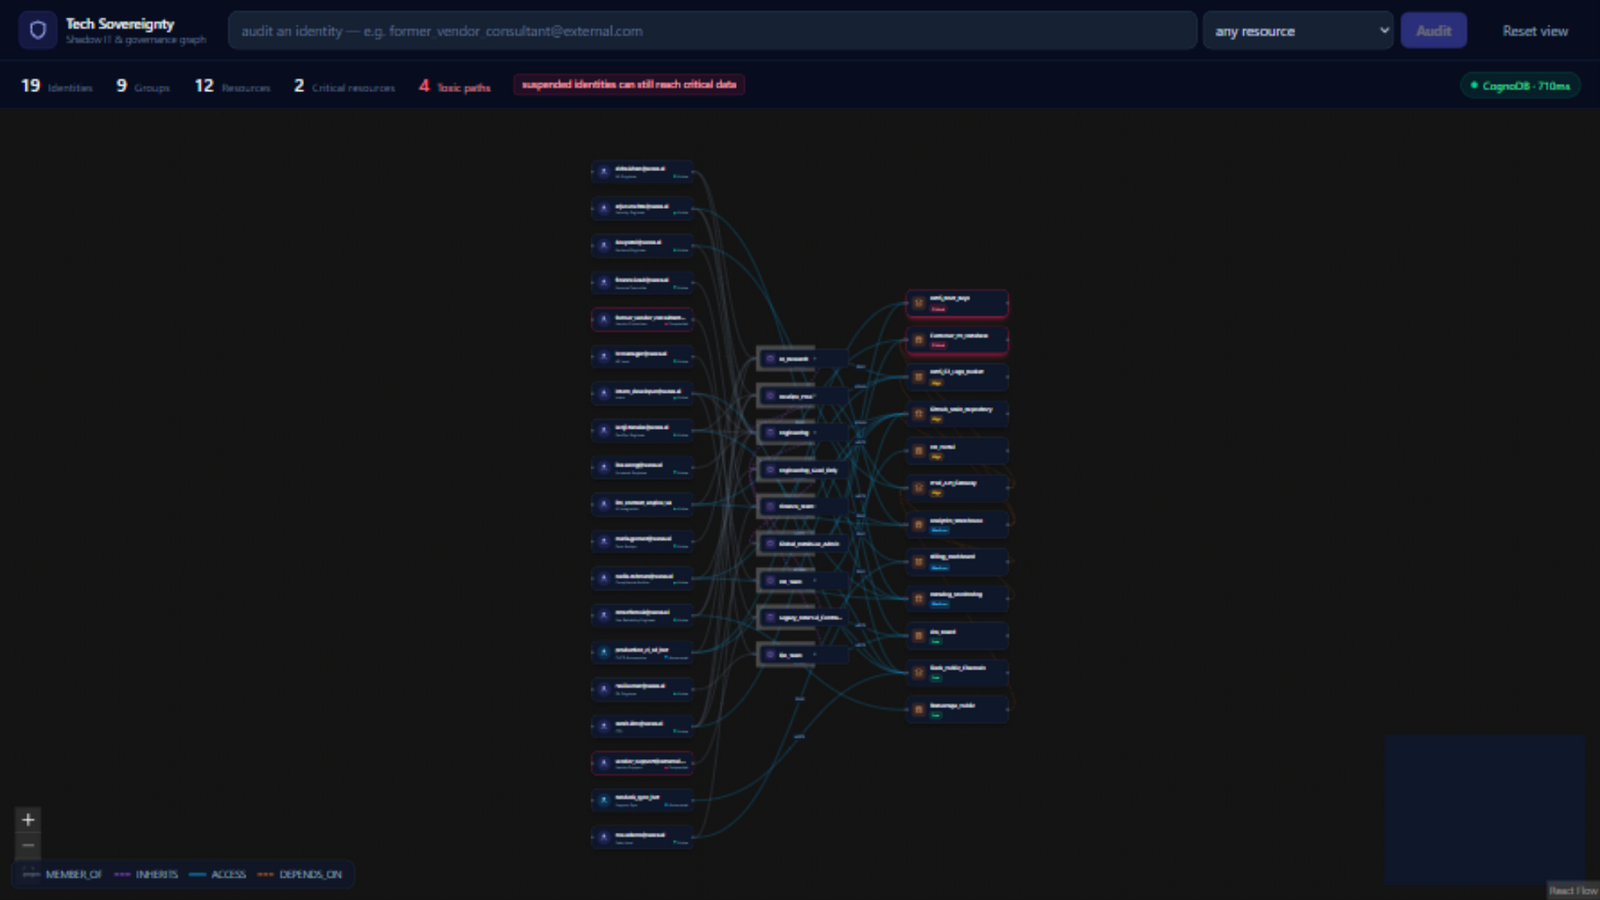
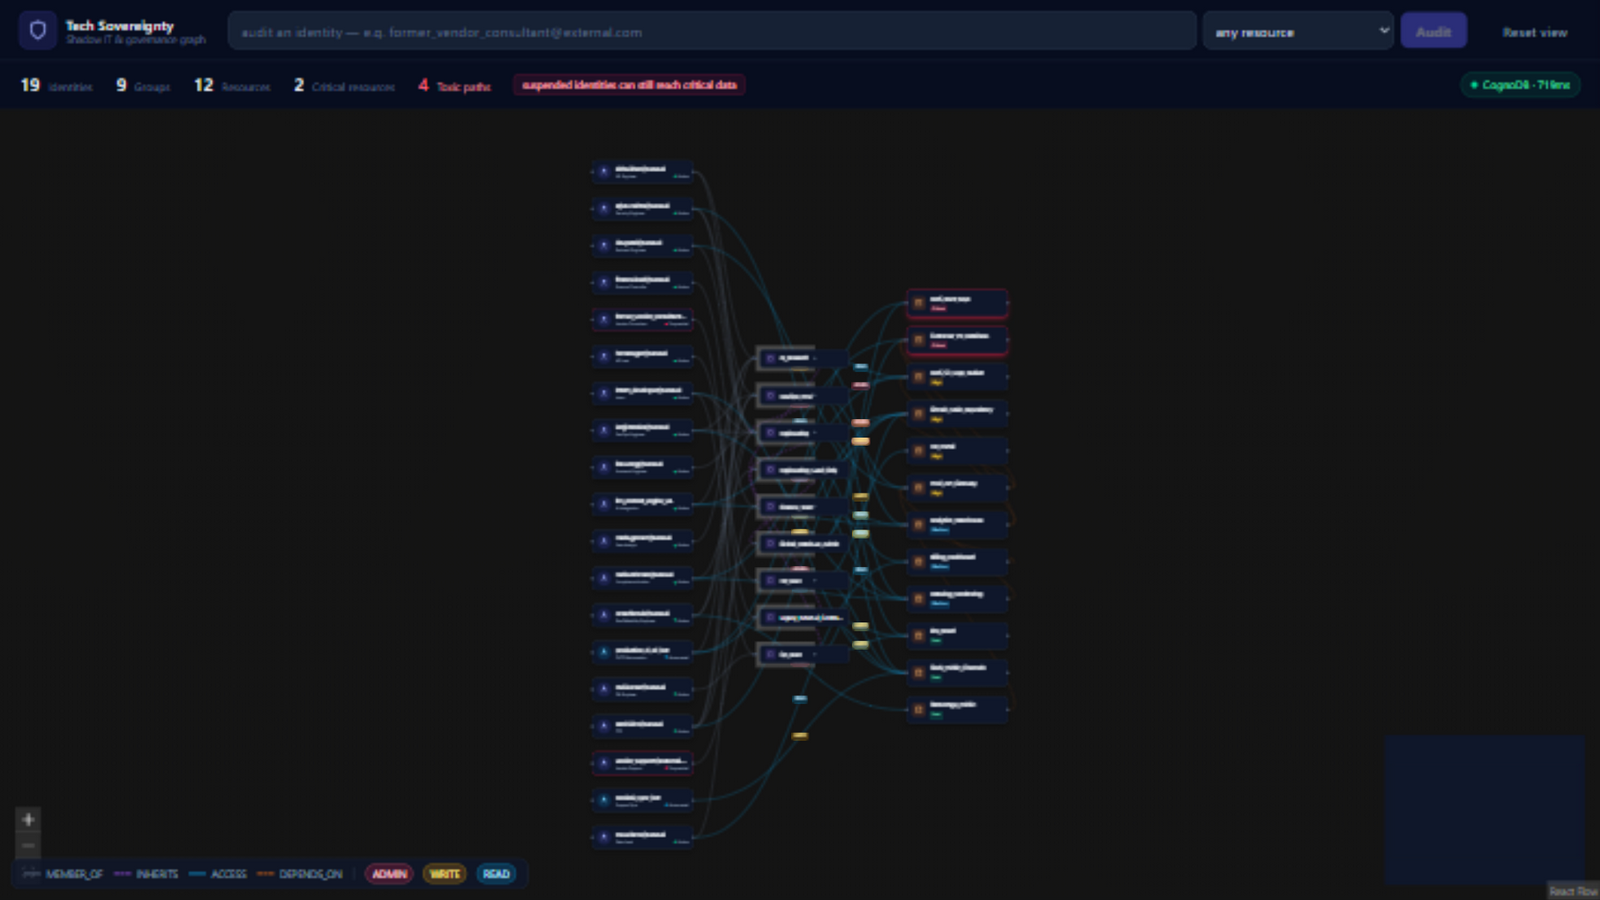
feat(ui): color-coded screen-space level chips for ACCESS edges + legend swatches

diff --git a/frontend/src/components/GraphCanvas.jsx b/frontend/src/components/GraphCanvas.jsx
@@ -4,8 +4,12 @@ import '@xyflow/react/dist/style.css'
 import IdentityNode from './nodes/IdentityNode'
 import GroupNode from './nodes/GroupNode'
 import ResourceNode from './nodes/ResourceNode'
+import LevelEdge, { levelChipClass } from './edges/LevelEdge'
 
 const nodeTypes = { identity: IdentityNode, group: GroupNode, resource: ResourceNode }
+const edgeTypes = { access: LevelEdge }
+
+const LEVELS = ['ADMIN', 'WRITE', 'READ']
 
 const EDGE_BASE = {
   MEMBER_OF: { stroke: '#64748b' },
@@ -43,17 +47,14 @@ export default function GraphCanvas({ data, highlight, cascadeIds, selectedId, o
       const base = EDGE_BASE[edge.type] ?? EDGE_BASE.MEMBER_OF
       return {
         id: edge.id,
+        type: edge.type === 'ACCESS' ? 'access' : undefined,
         source: edge.source,
         target: edge.target,
-        label: edge.type === 'ACCESS' ? edge.props?.level : undefined,
+        data: { level: edge.props?.level, dim },
         animated: hot,
         style: hot
           ? { ...base, strokeWidth: 3 }
           : { ...base, strokeWidth: 1.2, opacity: dim ? 0.07 : 0.8 },
-        labelStyle: { fill: '#94a3b8', fontSize: 9 },
-        labelBgStyle: { fill: '#0f172a' },
-        labelBgPadding: [4, 2],
-        labelBgBorderRadius: 4,
         markerEnd: { type: MarkerType.ArrowClosed, color: hot ? base.stroke : '#334155' },
       }
     })
@@ -67,6 +68,7 @@ export default function GraphCanvas({ data, highlight, cascadeIds, selectedId, o
         nodes={nodes}
         edges={edges}
         nodeTypes={nodeTypes}
+        edgeTypes={edgeTypes}
         onNodeClick={(_, node) => onNodeClick(node.id)}
         colorMode="dark"
         fitView
@@ -83,7 +85,7 @@ export default function GraphCanvas({ data, highlight, cascadeIds, selectedId, o
         <MiniMap pannable zoomable bgColor="#0f172a" maskColor="rgba(15, 23, 42, 0.7)" />
       </ReactFlow>
 
-      <div className="pointer-events-none absolute bottom-3 left-3 flex items-center gap-3 rounded-lg bg-slate-900/80 px-3 py-1.5 ring-1 ring-slate-800">
+      <div className="pointer-events-none absolute bottom-3 left-3 flex flex-wrap items-center gap-x-3 gap-y-1 rounded-lg bg-slate-900/80 px-3 py-1.5 ring-1 ring-slate-800">
         {LEGEND.map(([label, color, dashed]) => (
           <span key={label} className="flex items-center gap-1.5 text-[10px] text-slate-400">
             <span
@@ -91,6 +93,15 @@ export default function GraphCanvas({ data, highlight, cascadeIds, selectedId, o
               style={{ borderColor: color, borderStyle: dashed ? 'dashed' : 'solid' }}
             />
             {label}
+          </span>
+        ))}
+        <span className="h-3 w-px bg-slate-700" />
+        {LEVELS.map((level) => (
+          <span
+            key={level}
+            className={`rounded-full px-1.5 py-px text-[10px] font-semibold ring-1 ${levelChipClass(level)}`}
+          >
+            {level}
           </span>
         ))}
       </div>

diff --git a/frontend/src/components/edges/LevelEdge.jsx b/frontend/src/components/edges/LevelEdge.jsx
@@ -1,0 +1,63 @@
+import { BaseEdge, EdgeLabelRenderer, getBezierPath, useStore } from '@xyflow/react'
+
+const SHOW_BELOW_ZOOM = 0.3
+
+/** Color language shared by the edge chips and the legend. */
+export function levelChipClass(level) {
+  switch (level) {
+    case 'ADMIN':
+      return 'bg-rose-500/20 text-rose-200 ring-rose-400/50'
+    case 'WRITE':
+      return 'bg-amber-500/20 text-amber-200 ring-amber-400/50'
+    case 'READ':
+      return 'bg-sky-500/20 text-sky-200 ring-sky-400/50'
+    default:
+      return 'bg-slate-700/60 text-slate-300 ring-slate-500/50'
+  }
+}
+
+/**
+ * ACCESS edges only: the path plus an HTML level chip that keeps a constant,
+ * readable size at any zoom (hidden when zoomed far out to avoid clutter).
+ */
+export default function LevelEdge({
+  id,
+  sourceX,
+  sourceY,
+  targetX,
+  targetY,
+  sourcePosition,
+  targetPosition,
+  style,
+  markerEnd,
+  data,
+}) {
+  const [path, labelX, labelY] = getBezierPath({
+    sourceX,
+    sourceY,
+    sourcePosition,
+    targetX,
+    targetY,
+    targetPosition,
+  })
+  const zoom = useStore((s) => s.transform[2])
+  const showChip = data?.level && zoom >= SHOW_BELOW_ZOOM
+
+  return (
+    <>
+      <BaseEdge id={id} path={path} style={style} markerEnd={markerEnd} />
+      {showChip && (
+        <EdgeLabelRenderer>
+          <div
+            className={`nodrag nopan pointer-events-none absolute rounded-full px-1.5 py-px text-[10px] font-semibold ring-1 backdrop-blur-sm ${levelChipClass(
+              data.level,
+            )} ${data?.dim ? 'opacity-20' : ''}`}
+            style={{ transform: `translate(-50%, -50%) translate(${labelX}px, ${labelY}px)` }}
+          >
+            {data.level}
+          </div>
+        </EdgeLabelRenderer>
+      )}
+    </>
+  )
+}

diff --git a/frontend/src/components/edges/LevelEdge.test.jsx b/frontend/src/components/edges/LevelEdge.test.jsx
@@ -1,0 +1,15 @@
+import { describe, expect, it } from 'vitest'
+import { levelChipClass } from './LevelEdge'
+
+describe('levelChipClass', () => {
+  it('color-codes each access level', () => {
+    expect(levelChipClass('ADMIN')).toContain('rose')
+    expect(levelChipClass('WRITE')).toContain('amber')
+    expect(levelChipClass('READ')).toContain('sky')
+  })
+
+  it('falls back to neutral for unknown levels', () => {
+    expect(levelChipClass('OWNER')).toContain('slate')
+    expect(levelChipClass(undefined)).toContain('slate')
+  })
+})
